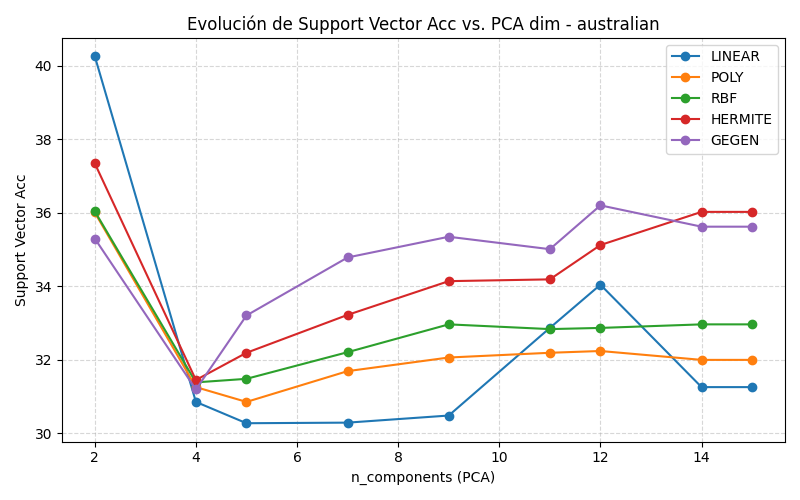
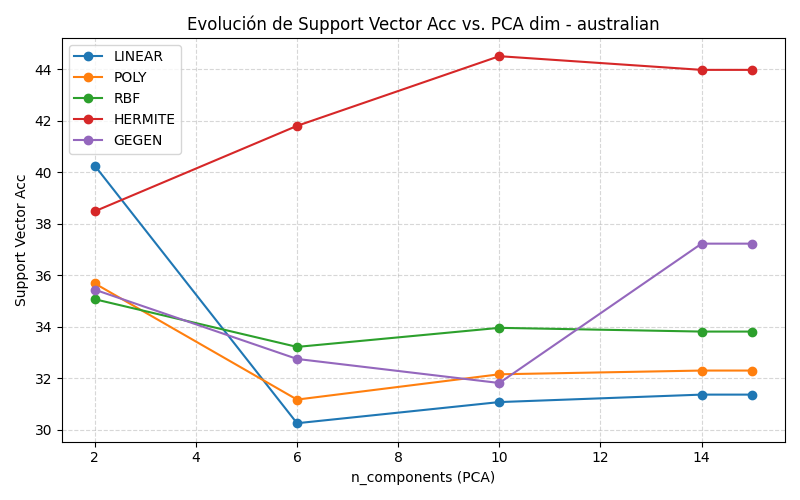
Transformación de los datos sin sesgo

diff --git a/Model/train.py b/Model/train.py
@@ -30,11 +30,10 @@ def train_svm(
     Si pca_dim!=None, aplica PCA(n_components=pca_dim) dentro del pipeline
     (previo al escalado y al SVC), fold a fold.
     """
-    steps = []
+    steps = [ ('scaler', MinMaxScaler(feature_range=(-1, 1)))]
     if pca_dim is not None:
         steps.append(('pca', PCA(n_components=pca_dim)))
     steps += [
-        ('scaler', MinMaxScaler(feature_range=(-1, 1))),
         ('svc',    SVC(kernel=kernel_func, C=C))
     ]
 
